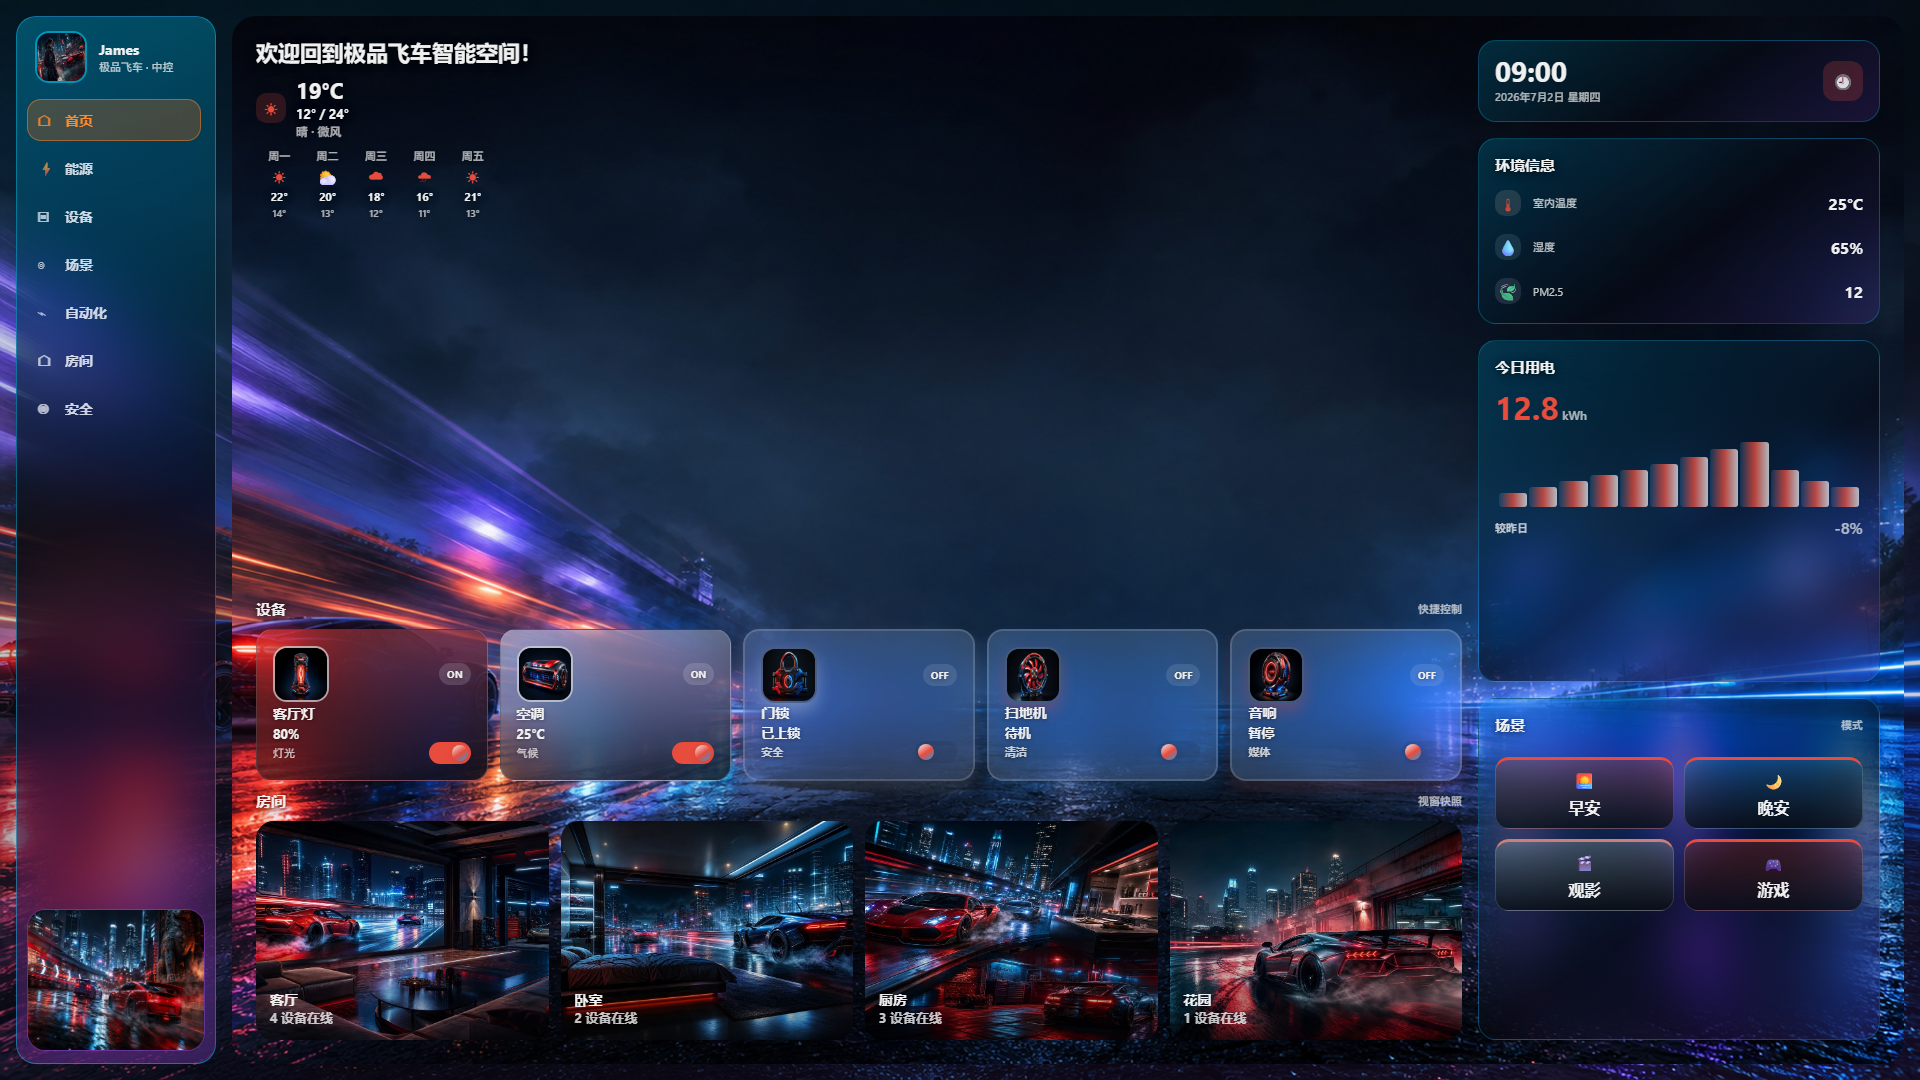
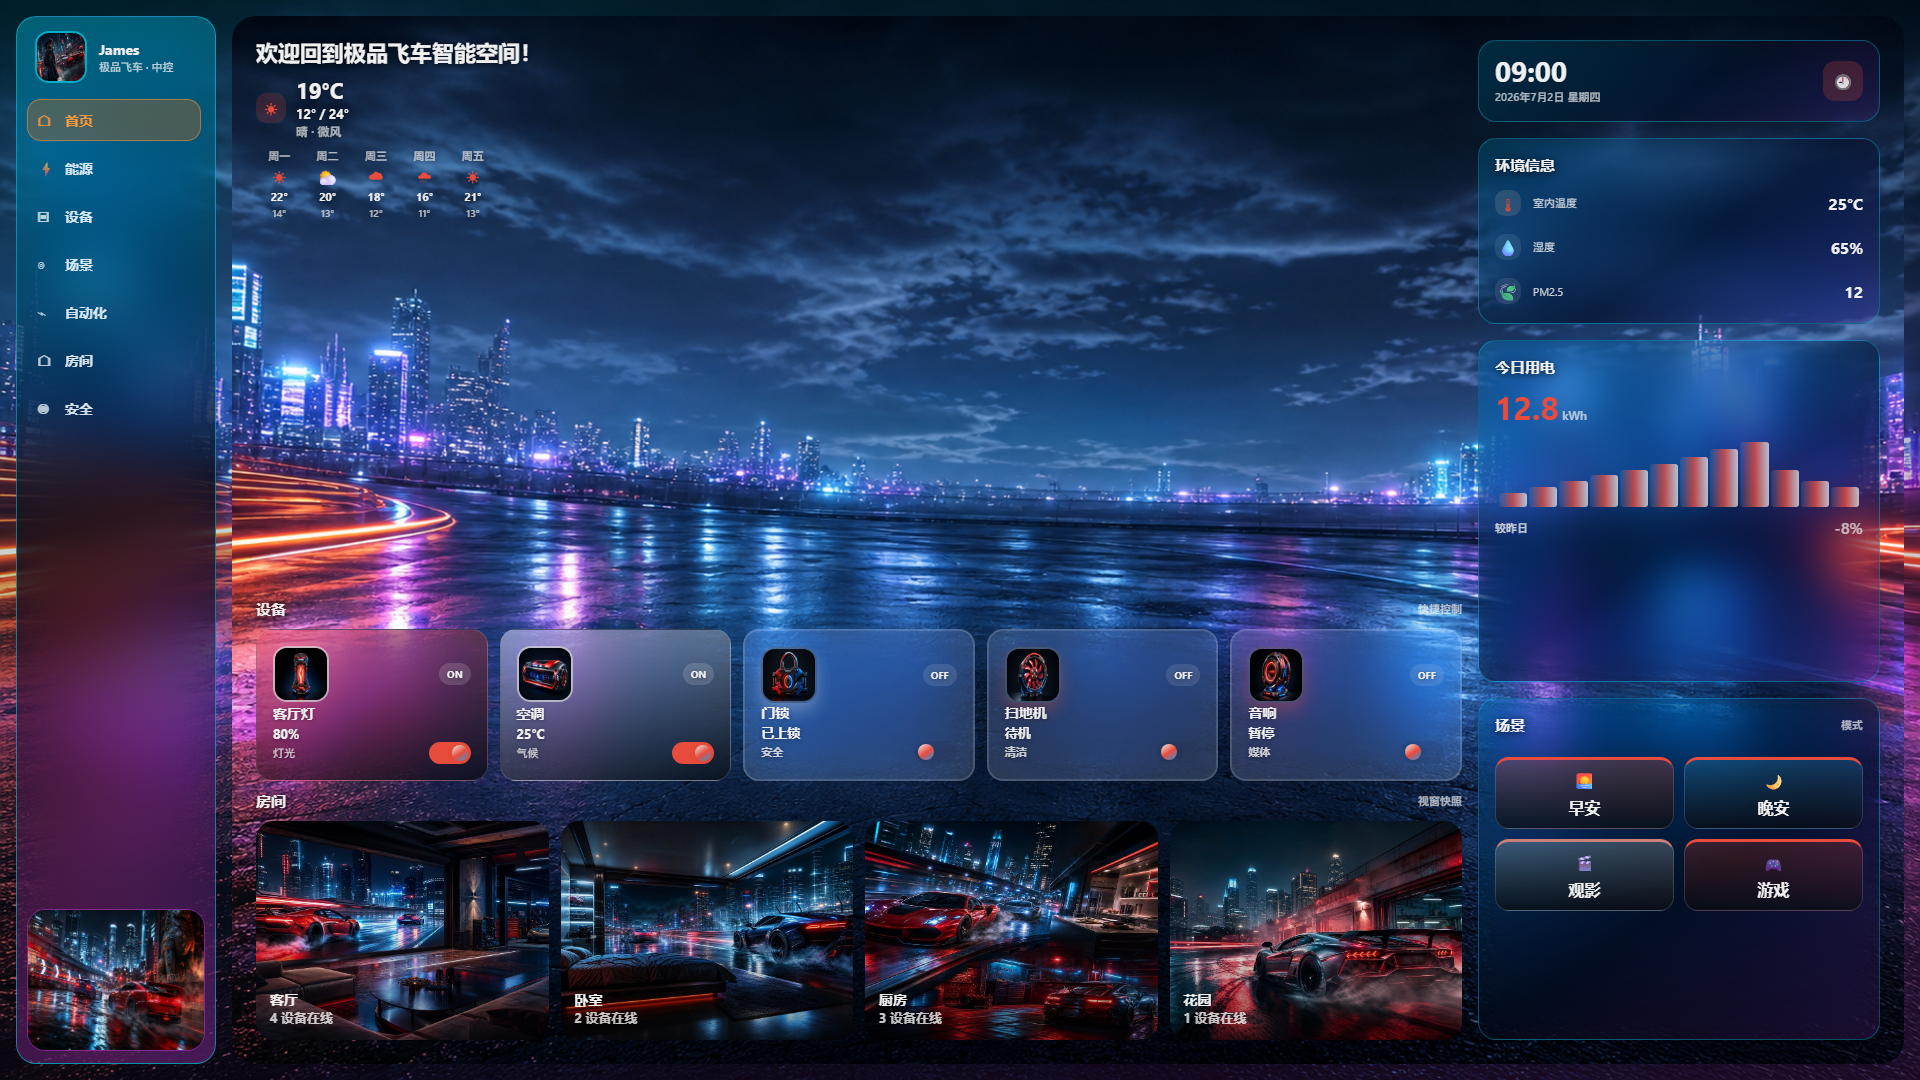
polish(need-for-speed): neon night race bg + frosted sidebar, no right card shadows

diff --git a/skins-pro/need-for-speed/theme.css b/skins-pro/need-for-speed/theme.css
@@ -1131,22 +1131,24 @@ button { font:inherit; }
   }
 }
 
-/* skins-pro need-for-speed polish v1 */
-/* 霓虹蓝紫/沥青黑/速度橙磨砂侧栏；右侧信息卡去重阴影；标准尺寸 200/52/42/~140 */
+/* skins-pro need-for-speed polish v2 */
+/* 贴合新霓虹夜景：青蓝/品红/沥青黑磨砂侧栏；右侧信息卡零阴影；标准尺寸 200/52/42/~140 */
 :host {
   --sp-sidebar-width: 200px !important;
-  --sp-app-overlay: linear-gradient(160deg, rgba(0, 212, 255, 0.08), rgba(8, 10, 18, 0.35) 55%, rgba(168, 85, 247, 0.10)) !important;
-  --sp-sidebar-bg: linear-gradient(165deg, rgba(0, 212, 255, 0.28), rgba(8, 10, 18, 0.82) 45%, rgba(168, 85, 247, 0.24)) !important;
-  --sp-sidebar-text: #F5F8FF !important;
-  --sp-sidebar-text-muted: rgba(245, 248, 255, 0.82) !important;
-  --sp-sidebar-active-bg: rgba(255, 106, 0, 0.30) !important;
-  --sp-sidebar-active-text: #FF8A2B !important;
+  --sp-app-overlay: linear-gradient(160deg, rgba(0, 229, 255, 0.10), rgba(6, 10, 22, 0.28) 52%, rgba(217, 70, 239, 0.12)) !important;
+  --sp-sidebar-bg: linear-gradient(165deg, rgba(0, 229, 255, 0.30), rgba(6, 10, 22, 0.78) 44%, rgba(217, 70, 239, 0.26)) !important;
+  --sp-sidebar-text: #F4FBFF !important;
+  --sp-sidebar-text-muted: rgba(244, 251, 255, 0.84) !important;
+  --sp-sidebar-active-bg: rgba(255, 106, 0, 0.32) !important;
+  --sp-sidebar-active-text: #FF9A3C !important;
+  --sp-shadow-sm: none !important;
   --sp-shadow-md: none !important;
   --sp-shadow-lg: none !important;
   --sp-shadow-xl: none !important;
   --sp-shadow-glass: none !important;
   --sp-shadow-card: none !important;
   --sp-shadow-scene: none !important;
+  --sp-shadow-device: none !important;
 }
 .mc-app {
   grid-template-columns: var(--sp-sidebar-width) minmax(0, 1fr);
@@ -1155,23 +1157,23 @@ button { font:inherit; }
   width: 200px;
   max-width: 200px;
   box-sizing: border-box;
-  background: linear-gradient(165deg, rgba(0, 212, 255, 0.30), rgba(8, 10, 18, 0.80) 48%, rgba(168, 85, 247, 0.26)) !important;
-  border: 1px solid rgba(0, 212, 255, 0.42) !important;
+  background: linear-gradient(165deg, rgba(0, 229, 255, 0.32), rgba(6, 10, 22, 0.76) 48%, rgba(217, 70, 239, 0.28)) !important;
+  border: 1px solid rgba(0, 229, 255, 0.48) !important;
   box-shadow: none !important;
-  backdrop-filter: blur(28px) saturate(175%) !important;
-  -webkit-backdrop-filter: blur(28px) saturate(175%) !important;
+  backdrop-filter: blur(28px) saturate(180%) !important;
+  -webkit-backdrop-filter: blur(28px) saturate(180%) !important;
 }
 .profile {
   align-items: center;
   min-height: 52px;
 }
 .profile .meta h3 {
-  color: #F5F8FF !important;
+  color: #F4FBFF !important;
   text-shadow: none !important;
   font-weight: 700;
 }
 .profile .meta .muted {
-  color: rgba(245, 248, 255, 0.74) !important;
+  color: rgba(244, 251, 255, 0.76) !important;
   font-weight: 600;
 }
 .profile-img {
@@ -1181,20 +1183,20 @@ button { font:inherit; }
   min-height: 52px;
   max-width: 52px;
   max-height: 52px;
-  border-color: rgba(0, 212, 255, 0.55) !important;
+  border-color: rgba(0, 229, 255, 0.58) !important;
   box-shadow: none !important;
 }
 .nav-button {
   min-height: 42px !important;
-  color: rgba(245, 248, 255, 0.84) !important;
+  color: rgba(244, 251, 255, 0.88) !important;
   font-weight: 700 !important;
 }
 .nav-button ha-icon { color: inherit !important; opacity: 0.95; }
 .nav-button:hover,
 .nav-button.active {
-  color: #FF8A2B !important;
-  background: rgba(255, 106, 0, 0.26) !important;
-  box-shadow: inset 0 0 0 1px rgba(255, 138, 43, 0.48) !important;
+  color: #FF9A3C !important;
+  background: rgba(255, 106, 0, 0.28) !important;
+  box-shadow: inset 0 0 0 1px rgba(255, 154, 60, 0.50) !important;
 }
 .sidebar-art {
   aspect-ratio: 1;
@@ -1203,7 +1205,7 @@ button { font:inherit; }
   flex-shrink: 0;
   border-radius: 18px !important;
   overflow: hidden;
-  border: 1px solid rgba(168, 85, 247, 0.36);
+  border: 1px solid rgba(217, 70, 239, 0.40);
   box-shadow: none !important;
 }
 .sidebar-art img {
@@ -1215,27 +1217,44 @@ button { font:inherit; }
 }
 
 /* 右侧信息卡：半透明霓虹磨砂、去掉重阴影 */
+.stage {
+  box-shadow: none !important;
+}
+.side > .glass-card,
+.side > .time-card,
+.side > .panel-energy,
+.side > .panel-environment,
+.side > .panel-scenes,
+.side > .maintenance-card,
 .glass-card,
 .time-card,
 .panel-energy,
 .panel-environment,
 .panel-scenes,
 .maintenance-card {
-  background: linear-gradient(145deg, rgba(0, 212, 255, 0.18), rgba(8, 10, 18, 0.62) 55%, rgba(168, 85, 247, 0.14)) !important;
-  border: 1px solid rgba(0, 212, 255, 0.26) !important;
-  backdrop-filter: blur(22px) saturate(160%) !important;
-  -webkit-backdrop-filter: blur(22px) saturate(160%) !important;
+  background: linear-gradient(145deg, rgba(0, 229, 255, 0.14), rgba(6, 10, 22, 0.50) 55%, rgba(217, 70, 239, 0.12)) !important;
+  border: 1px solid rgba(0, 229, 255, 0.30) !important;
+  backdrop-filter: blur(22px) saturate(165%) !important;
+  -webkit-backdrop-filter: blur(22px) saturate(165%) !important;
   box-shadow: none !important;
+  filter: none !important;
+  text-shadow: none !important;
 }
 .panel-scenes .scene,
 .scene {
   box-shadow: none !important;
+  filter: none !important;
 }
 .scene:hover {
   box-shadow: none !important;
 }
 .side {
   box-shadow: none !important;
+  filter: none !important;
 }
-/* end skins-pro need-for-speed polish v1 */
+.devices > .device,
+.room {
+  box-shadow: none !important;
+}
+/* end skins-pro need-for-speed polish v2 */
 
